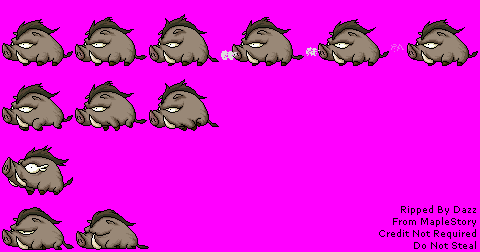
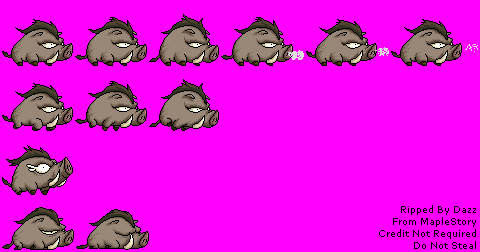
Novo nivel e novo Boss

diff --git a/data/levels/wildBoar.tsx b/data/levels/wildBoar.tsx
@@ -1,0 +1,4 @@
+<?xml version="1.0" encoding="UTF-8"?>
+<tileset version="1.2" tiledversion="1.3.3" name="WildBoar" tilewidth="71" tileheight="47" tilecount="1" columns="1">
+ <image source="../scene/wild_boar.png" width="71" height="47"/>
+</tileset>

diff --git a/fase.py b/fase.py
@@ -81,7 +81,14 @@ class Fase(Scene):
 
         # Ponemos al jugador en su posición inicial
         layer = conf.get_layer_by_name('Character')
-        tile = next(layer.tiles())
+        try:
+            # Para ejecutar el juego es necesario que haya un Jugador situado
+            # en algún punto del mapa donde comienza el juego, sinó lo hay se
+            # para la ejecución del juego
+            tile = next(layer.tiles())
+        except StopIteration:
+            raise ResourceWarning("Player's sprite not found. Include it in the"
+                                  " maps editor")
         coord_x = tile[0]
         coord_y = tile[1]
         self.player.setposition((coord_x*TILE_SIZE, coord_y*TILE_SIZE))
@@ -103,7 +110,13 @@ class Fase(Scene):
         # El jefe final del nivel está en una capa diferente y guardamos una
         # referencia a el en la fase para comprobar cuando se termina el nivel
         layer = conf.get_layer_by_name('Boss')
-        tile = next(layer.tiles())
+        try:
+            # Para ejecutar el juego es necesario que haya un Jefe al final del
+            # nivel, sinó lo hay se para la ejecución del juego
+            tile = next(layer.tiles())
+        except StopIteration:
+            raise ResourceWarning("Boss's sprite not found. Include it in the"
+                                  " maps editor")
         coord_x = tile[0]
         coord_y = tile[1]
         enemy_name = os.path.basename(tile[2][0])
@@ -125,7 +138,8 @@ class Fase(Scene):
 
      #ANIMATIONS AQUI
 
-    # Devuelve el enemigo que se corresponde con el nombre del fichero
+    # Devuelve el enemigo que se corresponde con el nombre del fichero que lo
+    # representa en el directorio data/scene
     def __get_enemy(self, name):
         enemy = None
         if name == 'zombie1.png':
@@ -138,6 +152,8 @@ class Fase(Scene):
             enemy = Zombie4()
         elif name == 'bear.png':
             enemy = Bear()
+        elif name == 'wild_boar.png':
+            enemy = WildBoar()
         else:
             enemy = Zombie1()
         return enemy

diff --git a/player.py b/player.py
@@ -442,5 +442,18 @@ class Bear(Enemy):
 
     def __init__(self):
         Enemy.__init__(self,'bear.png', 'coordBear.txt', [1,11,1,1],
-                       enemy_speed=0.1, enemy_jump_speed=0.2, health=3,
+                       enemy_speed=0.07, enemy_jump_speed=0.2, health=3,
                        damage_level=1.5)
+
+
+# Jabalí (Boss)
+class WildBoar(Enemy):
+
+    def __init__(self):
+        Enemy.__init__(self,'wild_boar.png', 'coordWildBoar.txt', [1,9,1,1],
+                       enemy_speed=0.1, enemy_jump_speed=0.2, health=4,
+                       damage_level=1.5)
+
+
+# WARNING: CADA VEZ QUE SE AÑADE UN ENEMIGO NUEVO HAY QUE AÑADIR UNA REFERENCIA
+# A SU CLASE EN EL MÉTODO __get_enemy() EN EL FICHERO fase.py

diff --git a/main.py b/main.py
@@ -15,7 +15,7 @@ from menu import *
 # Si se pone a True, se cargará directamente la fase indicada en DEBUG_FASE,
 # sin necesidad de acceder a través del menú
 DEBUG = True
-DEBUG_FASE_NUM = 1
+DEBUG_FASE_NUM = 2
 
 if __name__ == '__main__':
 
